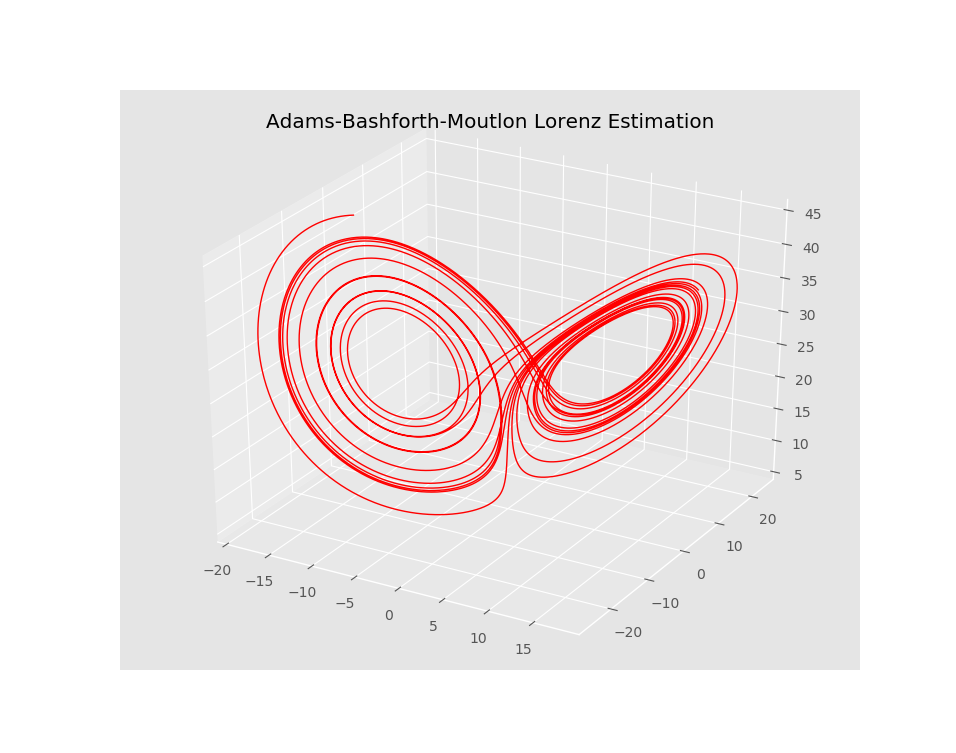
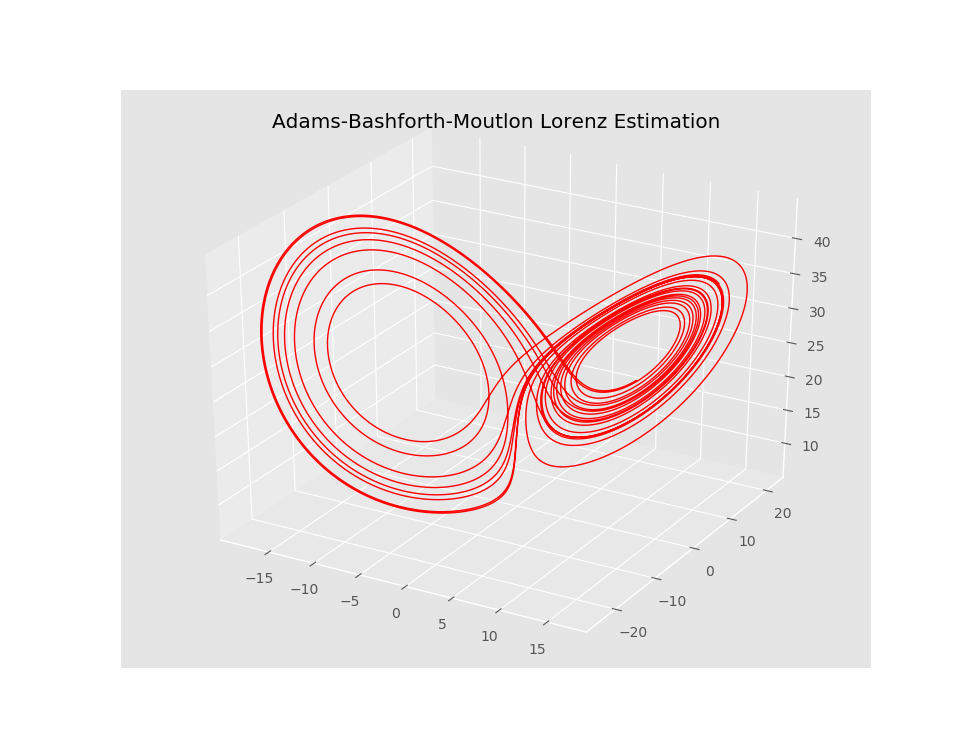
Add n=1,000,000 plot

diff --git a/README.md b/README.md
@@ -1,9 +1,9 @@
 # Adams-Bashforth-Moulton_LORENZ
-Using the Adams-Bashforth-Moulton method (via Runge-Kutta 4th order) to approximate the Lorenz problem.  Firstly starting with RK4 alone to see how the accuracy compares before implementing ABM.
+Using the Adams-Bashforth-Moulton method (via Runge-Kutta 4th order) to approximate the Lorenz problem.  Firstly starting with RK4 alone to see how the accuracy compares before implementing ABM.  ABM then uses RK4 as part of its computation.  I ran ABM up to n=1,000,000.
 
-# RK 4 Solo Solution
+## RK 4 Solo Solution: n=100,000
 ![RK4_2D](https://raw.githubusercontent.com/mathemacode/Adams-Bashforth-Moulton_LORENZ/master/plots/2D_plot.png)
 ![RK4](https://github.com/mathemacode/Adams-Bashforth-Moulton_LORENZ/blob/master/plots/RK4_est.png?raw=true)
 
-# Adams-Bashforth-Moulton Solution
+## Adams-Bashforth-Moulton Solution, n=1,000,000
 ![ABM](https://github.com/mathemacode/Adams-Bashforth-Moulton_LORENZ/blob/master/plots/AdamsBM_est.png?raw=true)
